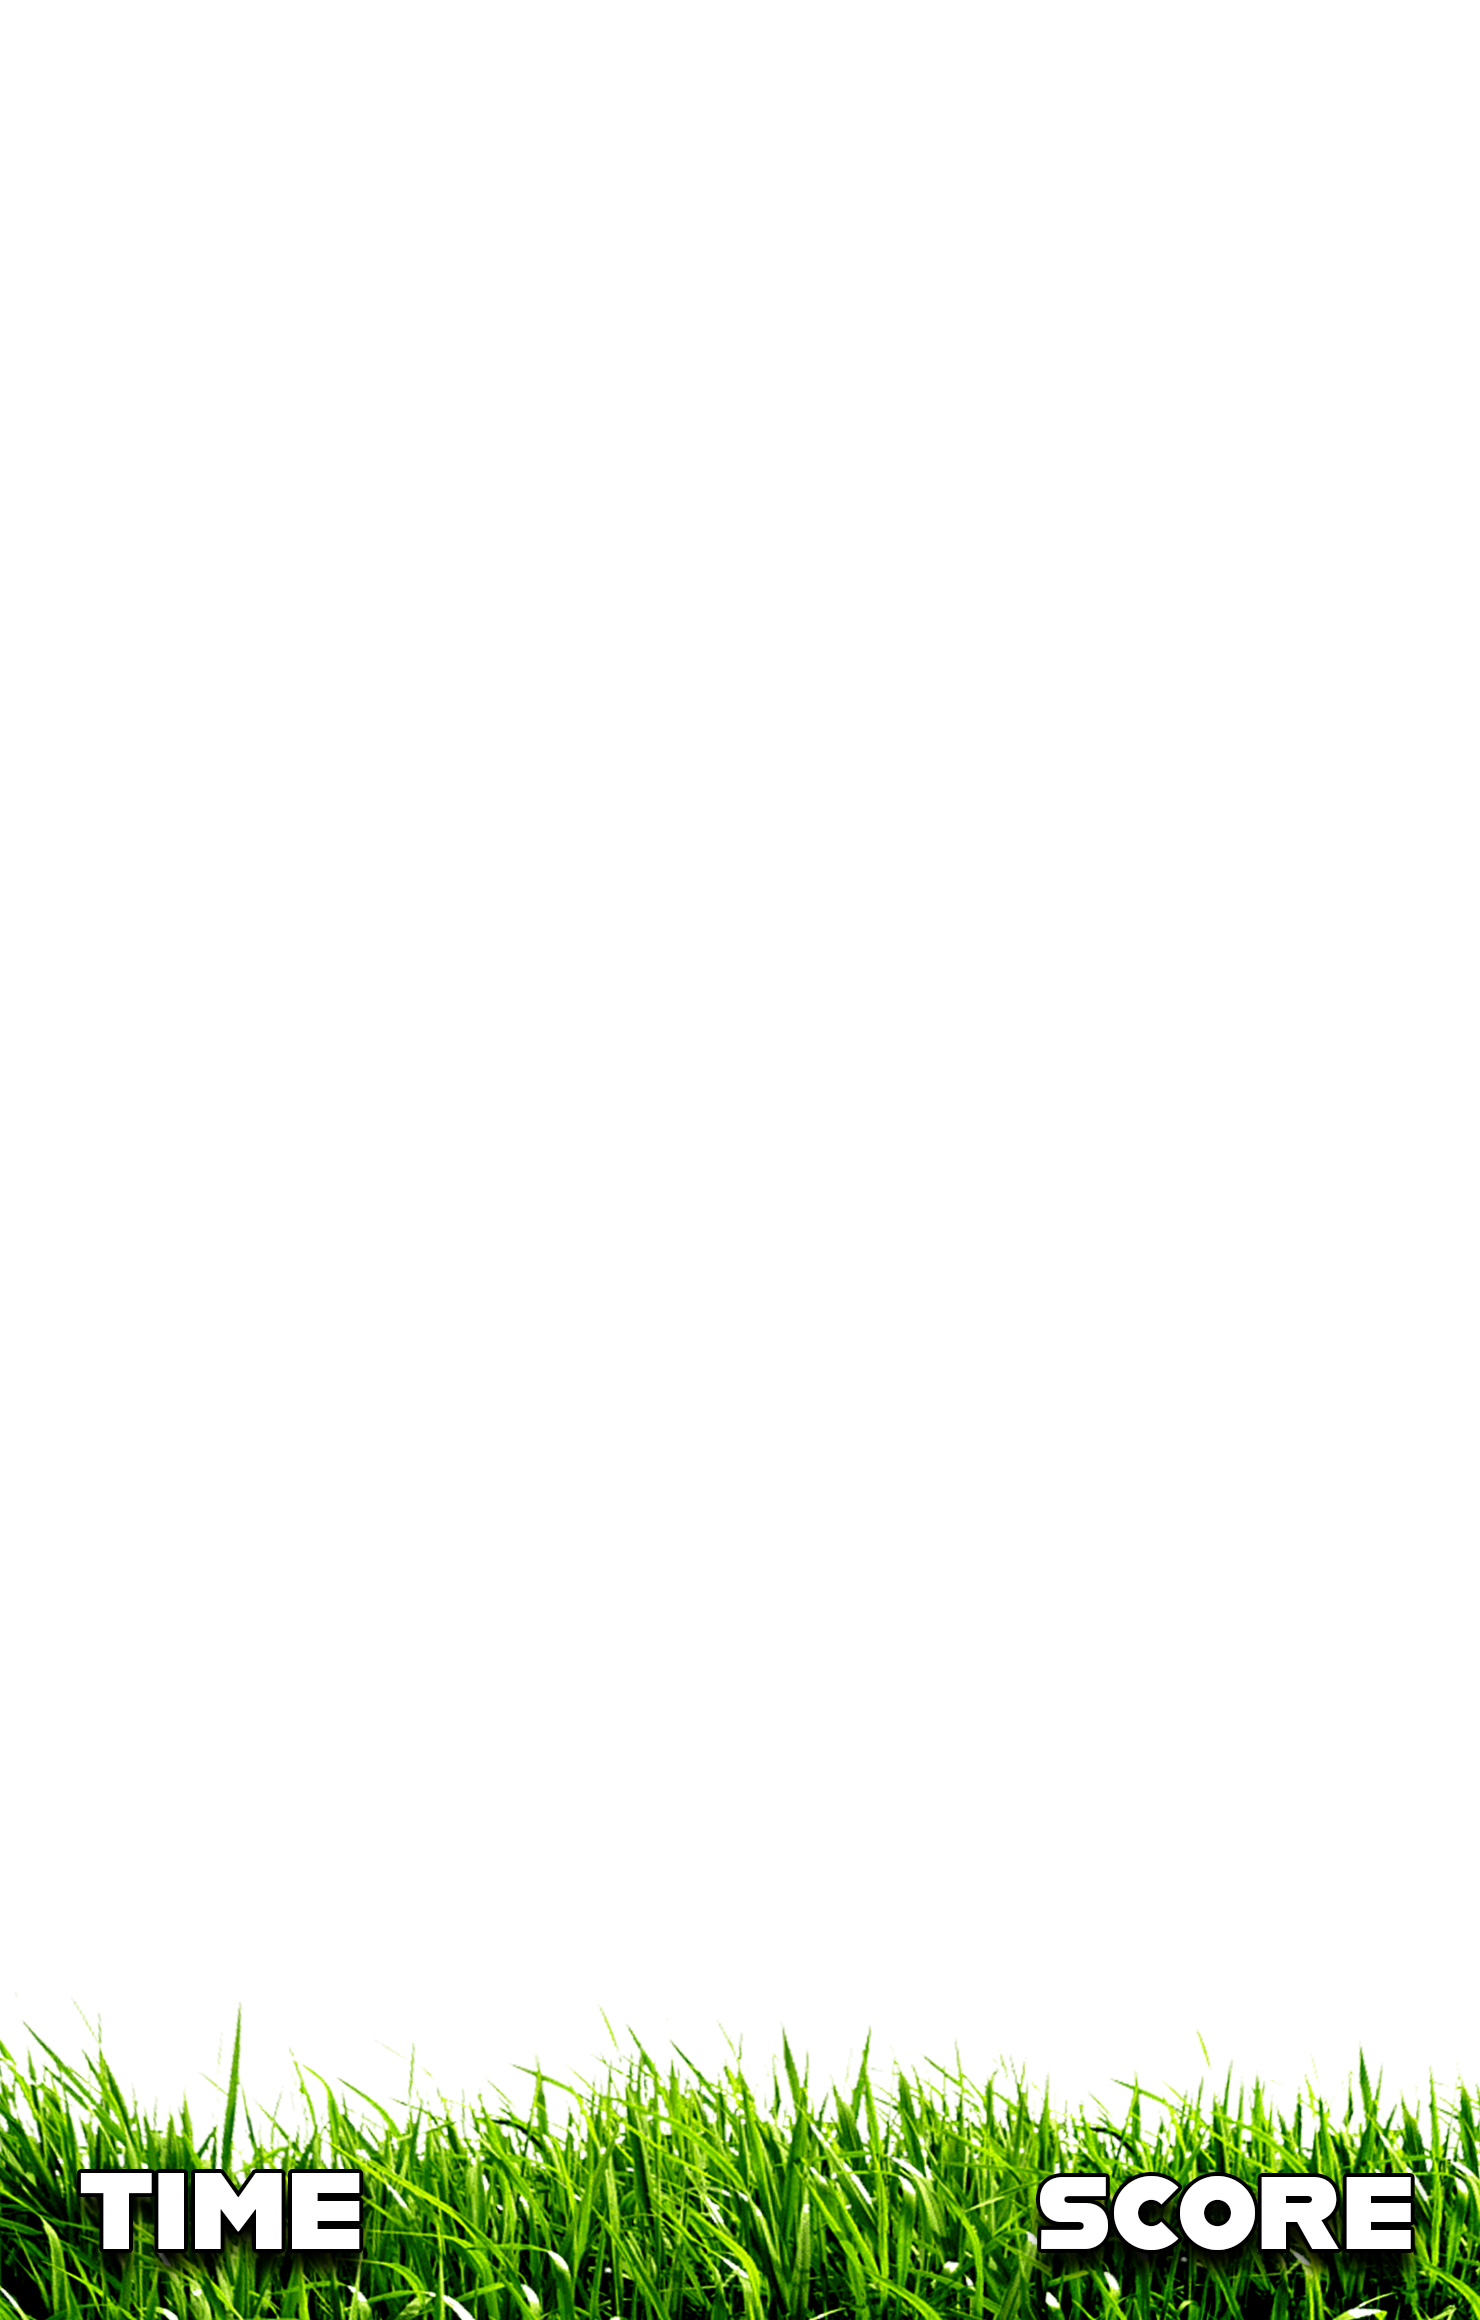
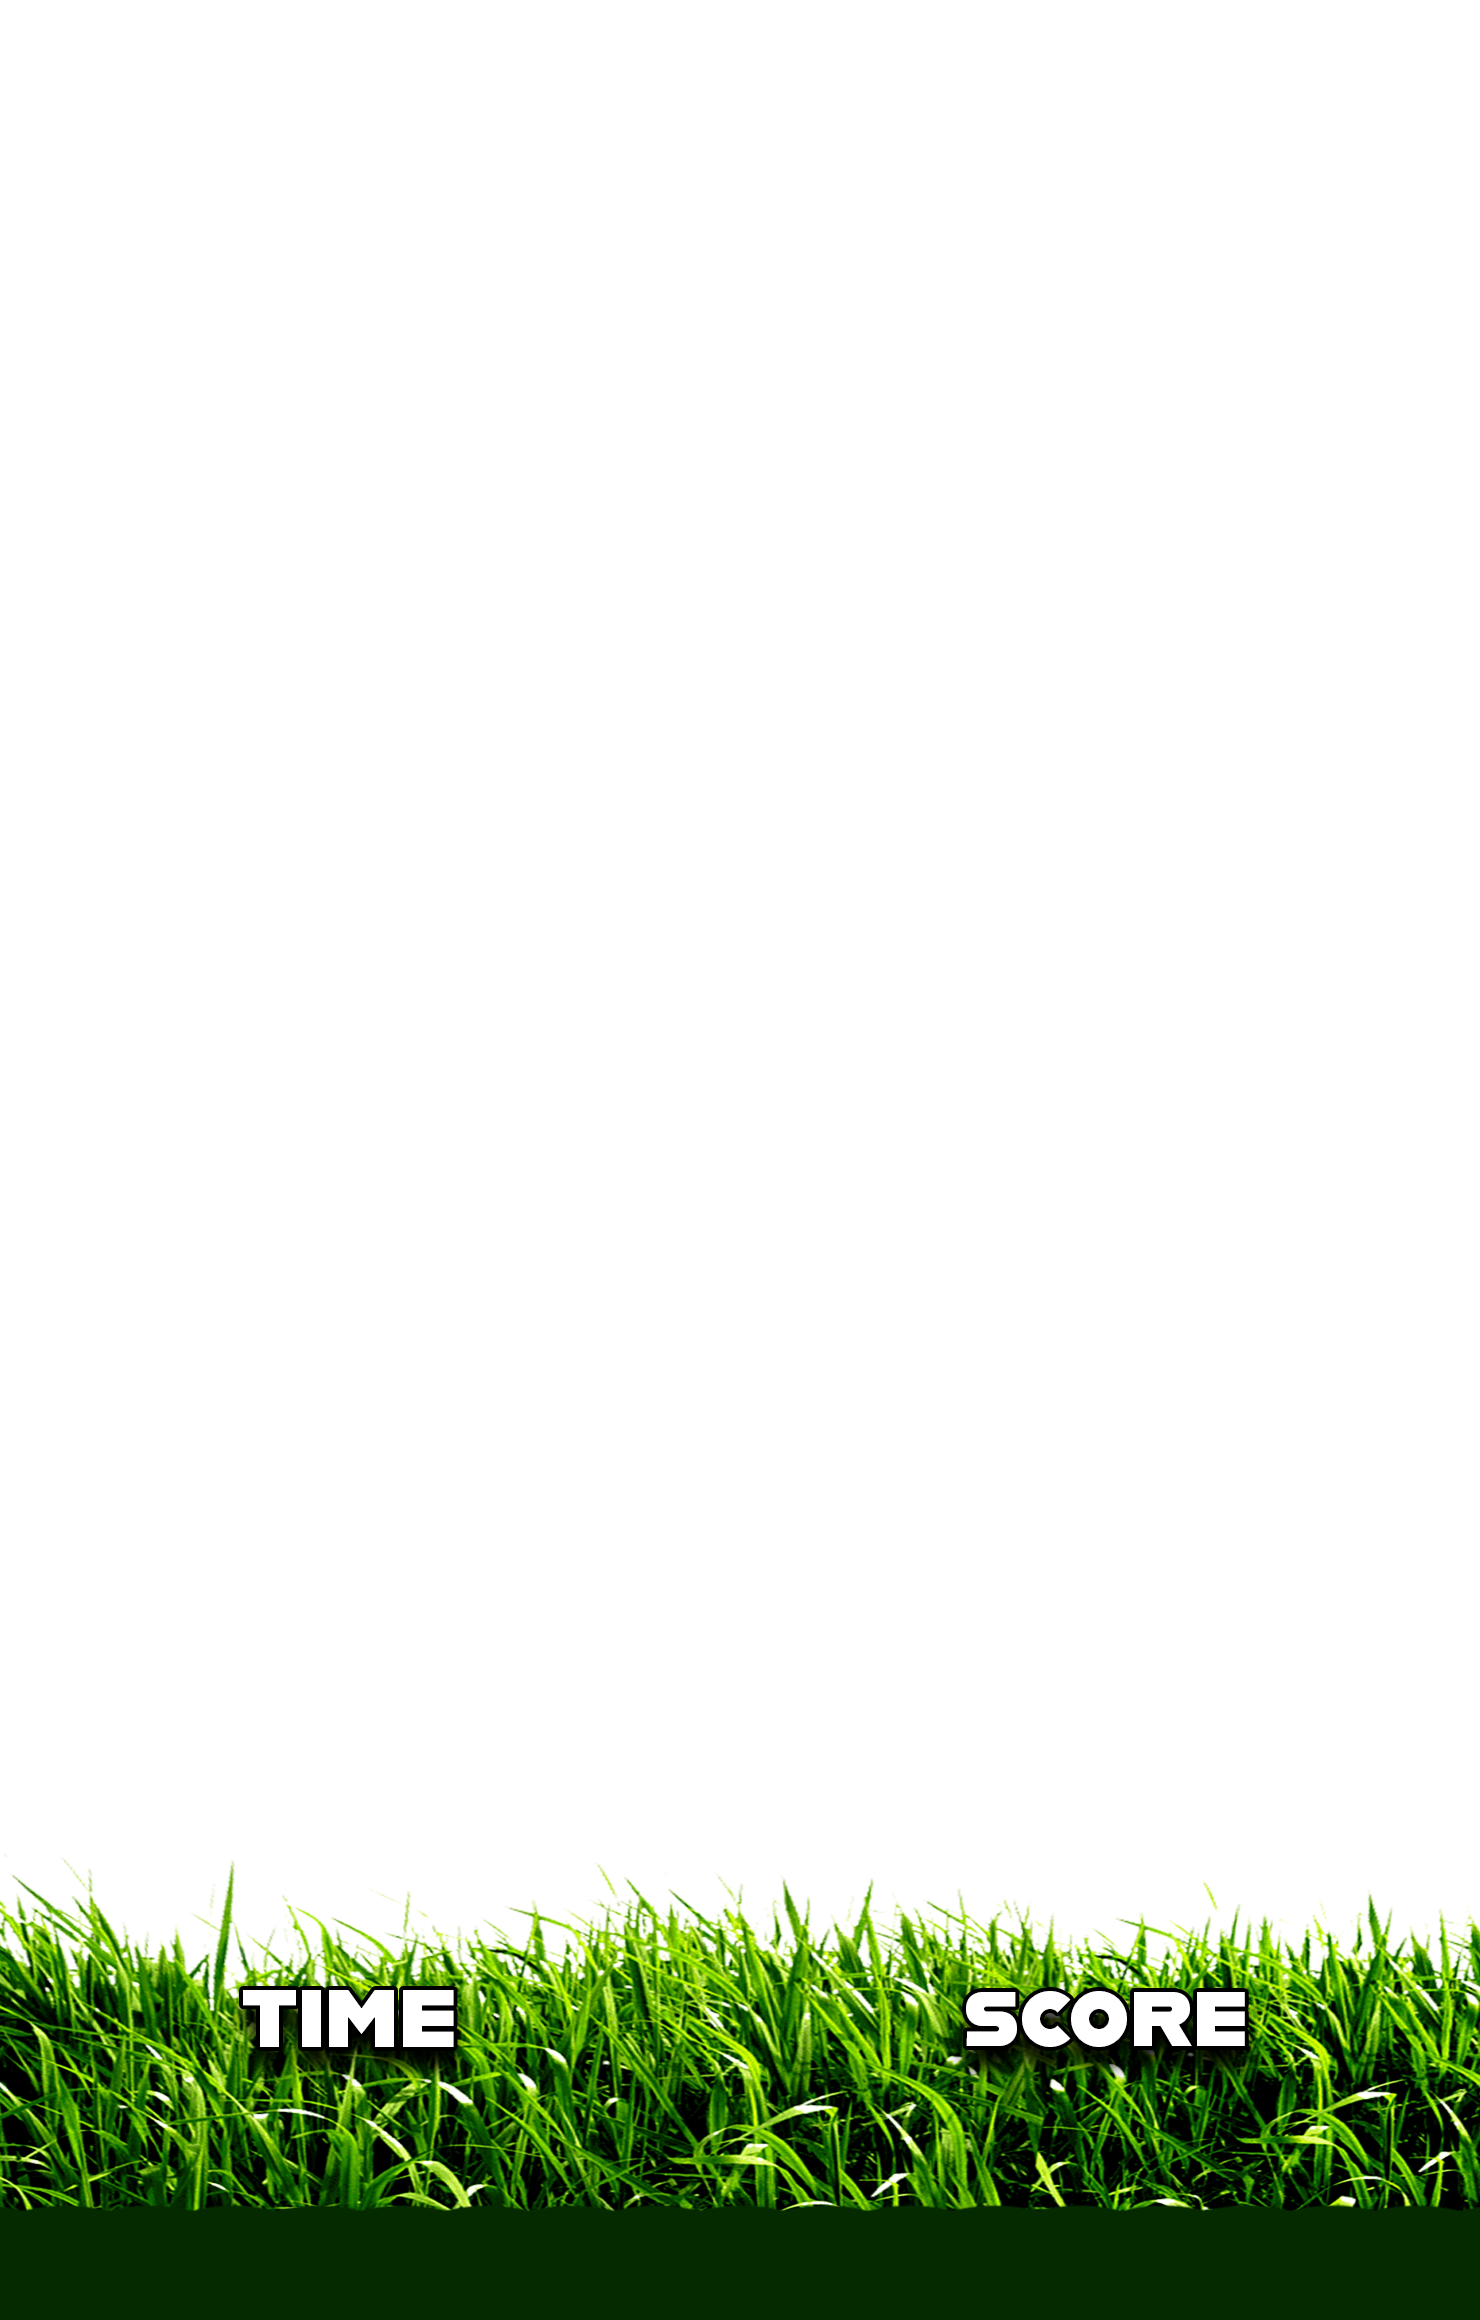
b

Changed region(s): [[0.0, 0.8069, 1.0, 1.0]]

diff --git a/index.html b/index.html
@@ -501,7 +501,7 @@
       </div>
 
       <button class="start-btn" id="continueBtn">Continue</button>
-      <div style="margin-top: 0.8rem; font-size: 1.5rem; font-weight: 900; color: rgba(255,255,255,0.4); letter-spacing: 1px;">v9.9</div>
+      <div style="margin-top: 0.8rem; font-size: 1.5rem; font-weight: 900; color: rgba(255,255,255,0.4); letter-spacing: 1px;">v10.0</div>
     </div>
   </div>
 
@@ -1074,7 +1074,7 @@
         clientY = e.clientY;
       }
       // Compensate for goal-layer parallax (0.5 rate on both axes) + camera zoom
-      const goalRate = 0.5;
+      const goalRate = 0.8;
       let gx = (clientX - rect.left) / scale - gyroX * BG_BLEED * goalRate;
       let gy = (clientY - rect.top) / scale - gyroY * BG_BLEED * goalRate;
       if (camZoom !== 1.0) {
@@ -1777,8 +1777,8 @@
       // ── LAYERED PARALLAX ──
       // Three layers with different movement rates based on gyro
       const pX = gyroX * BG_BLEED;
-      const grassRate = 1.0;   // closest — full movement
-      const goalRate = 0.5;    // mid — half movement
+      const grassRate = 1.5;   // closest — moves most
+      const goalRate = 0.8;    // mid — moves more
       const standsRate = 0.15; // far — subtle movement
 
       // Camera chase zoom
@@ -1842,7 +1842,7 @@
 
       // ── BOTTOM BAR: grass overlay on top of gameplay (fixed, no parallax) ──
       if (bottomBarLoaded) {
-        ctx.drawImage(bottomBarLayer, BG_OFFSET_X, BG_OFFSET_Y - 150, BG_W, BG_H);
+        ctx.drawImage(bottomBarLayer, BG_OFFSET_X, BG_OFFSET_Y, BG_W, BG_H);
       }
 
       // Fallback if nothing loaded
